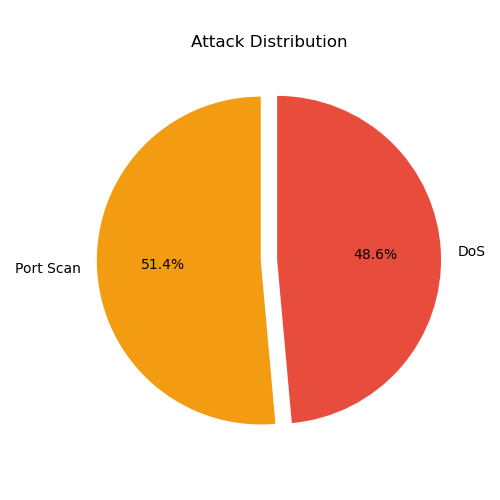
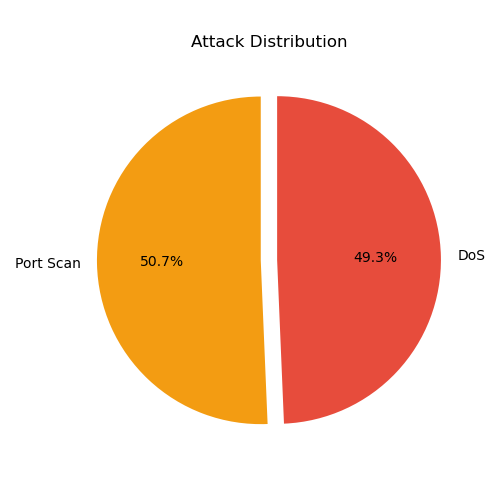
Block Mechanism

diff --git a/templates/dashboard.html b/templates/dashboard.html
@@ -43,20 +43,53 @@
         <h2>{{ trusted_hosts }}</h2>
     </div>
     <div class="card">
-        <h3>Blacklisted Hosts</h3>
-        <h2 id="blacklist-count">{{ blacklist_count }}</h2>
+        <h3>Blocked Hosts</h3>
+        <h2 id="blocked-count">{{ blocked_count }}</h2>
     </div>
 </div>
 
 <div class="charts">
     <div class="chart-card">
-        <h3>Alerts Per IP</h3>
-        <img id="chart-ip" src="{{ url_for('static', filename='alerts_per_ip.png') }}?t={{ last_updated }}" width="100%">
-    </div>
-    <div class="chart-card">
         <h3>Attack Distribution</h3>
         <img id="chart-dist" src="{{ url_for('static', filename='attack_distribution.png') }}?t={{ last_updated }}" width="100%">
     </div>
+    <div class="chart-card">
+    <h3>Blocked Hosts</h3>
+
+    <table>
+        <thead>
+            <tr>
+                <th>IP Address</th>
+                <th>Reason</th>
+                <th>Detected</th>
+            </tr>
+        </thead>
+
+        <tbody id="blocked-chart-table">
+
+        {% if blacklist %}
+
+            {% for host in blacklist %}
+            <tr>
+                <td>{{ host.ip }}</td>
+                <td>{{ host.reason }}</td>
+                <td>{{ host.time }}</td>
+            </tr>
+            {% endfor %}
+
+        {% else %}
+
+            <tr>
+                <td colspan="3">No blocked hosts.</td>
+            </tr>
+
+        {% endif %}
+
+        </tbody>
+
+    </table>
+
+</div>
 </div>
 
 <div class="tables">
@@ -68,8 +101,7 @@
 <th>Timestamp</th>
 <th>Source IP</th>
 <th>Attack Type</th>
-<th>Value</th>
-<th>Severity</th>
+<th>Action</th>
 </tr>
 </thead>
 <tbody id="alerts-table">
@@ -79,25 +111,17 @@
 <td>{{ alert.timestamp }}</td>
 <td>{{ alert.ip }}</td>
 <td>{{ alert.type }}</td>
-<td>{{ alert.value }}</td>
 <td>
-{% if alert.severity=="High" %}
-<span class="badge high">{{ alert.severity }}</span>
-{% elif alert.severity=="Medium" %}
-<span class="badge medium">{{ alert.severity }}</span>
-{% else %}
-<span class="badge low">{{ alert.severity }}</span>
-{% endif %}
+<span class="badge blocked">Blocked</span>
 </td>
 </tr>
 {% endfor %}
 {% else %}
-<tr><td colspan="5">No alerts detected.</td></tr>
+<tr><td colspan="4">No alerts detected.</td></tr>
 {% endif %}
 </tbody>
 </table>
 </div>
-
 <div class="table-card">
 <h3>Trusted Hosts</h3>
 <table>
@@ -118,32 +142,6 @@
 </table>
 </div>
 
-<div class="table-card">
-<h3>Blacklisted Hosts</h3>
-<table>
-<thead>
-<tr>
-<th>IP Address</th>
-<th>Reason</th>
-<th>Detected</th>
-</tr>
-</thead>
-<tbody id="blacklist-table">
-{% if blacklist %}
-{% for host in blacklist %}
-<tr>
-<td>{{ host.ip }}</td>
-<td>{{ host.reason }}</td>
-<td>{{ host.time }}</td>
-</tr>
-{% endfor %}
-{% else %}
-<tr><td colspan="3">No blacklisted hosts.</td></tr>
-{% endif %}
-</tbody>
-</table>
-</div>
-</div>
 
 <script>
 function startIDS() {
@@ -200,10 +198,9 @@ function refreshData() {
             document.getElementById("blacklist-count").textContent = data.blacklist_count;
             document.getElementById("last-updated").textContent = data.last_updated;
             document.getElementById("alerts-table").innerHTML = data.alerts_html;
-            document.getElementById("blacklist-table").innerHTML = data.blacklist_html;
+            document.getElementById("blocked-chart-table").innerHTML = data.blacklist_html;
 
             var t = new Date().getTime();
-            document.getElementById("chart-ip").src = "/static/alerts_per_ip.png?t=" + t;
             document.getElementById("chart-dist").src = "/static/attack_distribution.png?t=" + t;
         });
 }

diff --git a/static/style.css b/static/style.css
@@ -406,3 +406,7 @@ button:disabled{
     font-weight: bold;
 }
 .btn-logout:hover { background: #636e72; }
+.badge.blocked{
+    background:#27ae60;
+    color:white;
+}

diff --git a/ids.py b/ids.py
@@ -4,6 +4,7 @@ import time
 import threading
 import pandas as pd
 import os
+import subprocess
 
 # ── LOAD WHITELIST ──
 WHITELIST_FILE = "whitelist.txt"
@@ -59,6 +60,25 @@ def log_alert(ip, anomaly_type, value):
     print("\n[ALERT]" + timestamp + "|" + ip + "|" + anomaly_type + "| Value:" + str(value))
     print(f"[BLACKLIST]" + ip + " has been flagged and blacklisted")
 
+
+def block_ip(ip):
+
+    try:
+        subprocess.run([
+            "iptables",
+            "-A",
+            "INPUT",
+            "-s",
+            ip,
+            "-j",
+            "DROP"
+        ], check=True)
+
+        print(f"[BLOCKED] {ip} has been blocked using iptables")
+
+    except Exception as e:
+        print(f"[ERROR] Failed to block {ip}: {e}")
+
 # --- Packet Handler ---
 def process_packet(packet):
     global window_start
@@ -83,56 +103,35 @@ def process_packet(packet):
             if TCP in packet:
 
                 # Only count SYN packets
-                if packet[TCP].flags == 0x02:
-                    port_tracker[src].add(packet[TCP].dport)
+                port_tracker[src].add(packet[TCP].dport)
 
             elif UDP in packet:
                 port_tracker[src].add(packet[UDP].dport)
 
-            check_thresholds()
+            # ----- Immediate Port Scan Detection -----
+            if len(port_tracker[src]) >= PORT_THRESHOLD:
 
+                blacklist.add(src)
+                block_ip(src)
+                log_alert(src, "PORT SCAN", len(port_tracker[src]))
+
+                return
+
+
+            # ----- Immediate DoS Detection -----
+            if packet_counts[src] >= PACKET_THRESHOLD:
+
+                blacklist.add(src)
+                block_ip(src)
+                log_alert(src, "DOS / TRAFFIC SPIKE", packet_counts[src])
+
+                return
 
             # Check thresholds every time window
             if time.time() - window_start >= TIME_WINDOW:
                 packet_counts.clear()
                 port_tracker.clear()
-                blacklist.clear()
                 window_start = time.time()
-
-
-# --- Detection logic ---
-def check_thresholds():
-
-    for ip in packet_counts:
-
-        packet_count = packet_counts[ip]
-        unique_ports = len(port_tracker[ip])
-
-        # Skip already blacklisted IPs
-        if ip in blacklist:
-            continue
-
-        # ---- Port Scan Detection (Priority) ----
-        if unique_ports > PORT_THRESHOLD:
-
-            blacklist.add(ip)
-
-            log_alert(
-                ip,
-                "PORT SCAN",
-                unique_ports
-            )
-
-        # ---- DoS Detection ----
-        elif packet_count > PACKET_THRESHOLD:
-
-            blacklist.add(ip)
-
-            log_alert(
-                ip,
-                "DOS / TRAFFIC SPIKE",
-                packet_count
-            )
 
 
 # --- Main ---

diff --git a/flask_dashboard.py b/flask_dashboard.py
@@ -85,7 +85,6 @@ def dashboard():
     alerts = []
     blacklist = []
 
-    alerts_per_ip = {}
     attack_distribution = {
         "Port Scan": 0,
         "DoS": 0
@@ -101,11 +100,6 @@ def dashboard():
             df[df["Anomaly Type"].str.contains("PORT", case=False)]
         )
 
-        alerts_per_ip = (
-            df["Source IP"]
-            .value_counts()
-            .to_dict()
-        )
 
         attack_distribution = {
             "Port Scan": portscan_alerts,
@@ -117,29 +111,12 @@ def dashboard():
         for _, row in df.iterrows():
 
             anomaly = str(row["Anomaly Type"])
-            value = int(row["Value"])
-
-            if anomaly == "DOS / TRAFFIC SPIKE":
-
-                if value >= 2000:
-                    severity = "High"
-
-                elif value >= 1000:
-                    severity = "Medium"
-
-                else:
-                    severity = "Low"
-
-            else:
-                severity = "High"
 
             alerts.append({
 
                 "timestamp": row["Timestamp"],
                 "ip": row["Source IP"],
                 "type": anomaly,
-                "value": value,
-                "severity": severity
 
             })
 
@@ -157,39 +134,6 @@ def dashboard():
 
                 seen.add(ip)
 
-    # ===============================
-    # Generate Alerts Per IP Graph
-    # ===============================
-
-    plt.figure(figsize=(6,4))
-
-    if alerts_per_ip:
-
-        plt.bar(
-            alerts_per_ip.keys(),
-            alerts_per_ip.values(),
-            color="#4F81BD"
-        )
-
-        plt.title("Alerts Per Source IP")
-        plt.ylabel("Number of Alerts")
-        plt.grid(axis="y", linestyle="--", alpha=0.4)
-
-    else:
-
-        plt.text(
-            0.5,
-            0.5,
-            "No Alerts",
-            ha="center",
-            fontsize=14
-        )
-
-    plt.tight_layout()
-
-    plt.savefig("static/alerts_per_ip.png")
-
-    plt.close()
 
 
     # ===============================
@@ -244,7 +188,7 @@ def dashboard():
 
         trusted_hosts=len(whitelist),
 
-        blacklist_count=len(blacklist),
+        blocked_count=len(blacklist),
 
         whitelist=whitelist,
 
@@ -309,8 +253,14 @@ def data():
             else:
                 severity = "High"
             badge = f'<span class="badge {severity.lower()}">{severity}</span>'
-            alerts_html += f"<tr><td>{row['Timestamp']}</td><td>{row['Source IP']}</td><td>{anomaly}</td><td>{value}</td><td>{badge}</td></tr>"
-
+            alerts_html += (
+                f"<tr>"
+                f"<td>{row['Timestamp']}</td>"
+                f"<td>{row['Source IP']}</td>"
+                f"<td>{anomaly}</td>"
+                f"<td><span class='badge blocked'>Blocked</span></td>"
+                f"</tr>"
+            )
         seen = set()
         for _, row in df.iterrows():
             ip = row["Source IP"]
@@ -324,7 +274,7 @@ def data():
         "portscan_alerts": portscan_alerts,
         "blacklist_count": blacklist_count,
         "last_updated": datetime.now().strftime("%H:%M:%S"),
-        "alerts_html": alerts_html if alerts_html else "<tr><td colspan='5'>No alerts detected.</td></tr>",
+        "alerts_html": alerts_html if alerts_html else "<tr><td colspan='4'>No alerts detected.</td></tr>",
         "blacklist_html": blacklist_html if blacklist_html else "<tr><td colspan='3'>No blacklisted hosts.</td></tr>"
     })
 